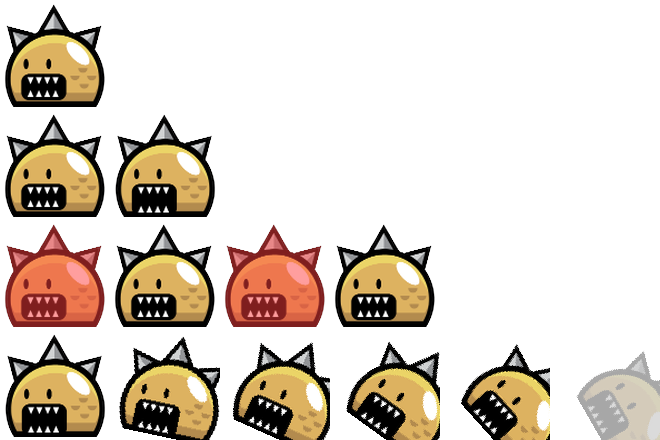
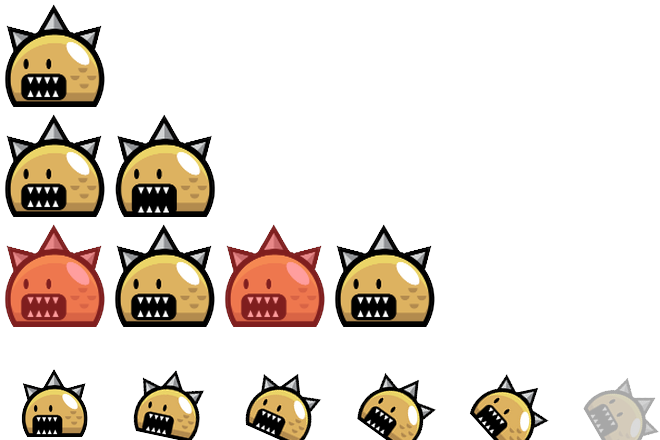
Fix enemy death frames getting clipped by the rotation
Frames 3-6 of the enemy death sequence rotated the already tightly-fit
110x110 sprite around a bottom pivot, so at larger angles the ears/spikes
swung past the canvas edge and got cut off. Scale the character down
specifically for the death sequence (max_target_for_rotation computes
how small it needs to be so a 60deg rotation around that pivot stays
within frame bounds) before rotating, so every frame stays fully visible.

Claude-Session: https://claude.ai/code/session_019oaB5ryC3pTEWKgWwECVMb

Changed region(s): [[0.0, 0.7682, 0.6667, 1.0], [0.697, 0.7682, 0.8485, 1.0], [0.8788, 0.7977, 1.0, 1.0]]

diff --git a/tools/compose_enemy_sheet.py b/tools/compose_enemy_sheet.py
@@ -39,10 +39,12 @@ def load_frames():
     return frames
 
 
-def fit_into_cell(char_img):
+def fit_into_cell(char_img, target=FRAME - 6):
+    """target = maksymalny rozmiar postaci wewnątrz komórki FRAMExFRAME (reszta
+    to margines). Dla death używamy mniejszego target, żeby przy obrocie kolce
+    głowy nie wyjeżdżały poza kadr (patrz max_target_for_rotation)."""
     cw, ch = char_img.size
-    margin = 6
-    scale = min((FRAME - margin) / cw, (FRAME - margin) / ch)
+    scale = min(target / cw, target / ch)
     new_w = max(1, round(cw * scale))
     new_h = max(1, round(ch * scale))
     resized = char_img.resize((new_w, new_h), Image.LANCZOS)
@@ -51,6 +53,20 @@ def fit_into_cell(char_img):
     py = FRAME - 3 - new_h
     cell.paste(resized, (px, py), resized)
     return cell
+
+
+def max_target_for_rotation(max_angle_deg, pivot_margin_from_bottom=12, edge_margin=3):
+    """Największy bezpieczny rozmiar postaci (fit_into_cell target), przy którym
+    obrót o max_angle_deg wokół pivotu (blisko dołu komórki) nie wychodzi poza
+    krawędzie FRAMExFRAME. Odległość czubka głowy od pivotu (d) po obrocie ma
+    składową poziomą d*sin(kąt) - to ona ogranicza, bo pivot jest blisko
+    poziomego środka, a mało miejsca po bokach."""
+    import math
+    pivot_y = FRAME - pivot_margin_from_bottom
+    half_width_available = FRAME / 2 - edge_margin
+    d_max = half_width_available / math.sin(math.radians(max_angle_deg))
+    # d = wysokość_postaci - (odległość dołu postaci od pivotu, tu ~9px z marginesu)
+    return max(20, round(d_max + 9))
 
 
 def tint_red(img, strength=0.5):
@@ -70,12 +86,16 @@ def main():
 
     hit_frames = [tint_red(cells[0]) if i % 2 == 0 else cells[0] for i in range(4)]
 
+    MAX_DEATH_ANGLE = 60
+    death_target = max_target_for_rotation(MAX_DEATH_ANGLE)
+    death_base = fit_into_cell(raw_frames[1], target=death_target)
+
     death_frames = []
     for i in range(6):
-        angle = min(60, i * 12)
+        angle = min(MAX_DEATH_ANGLE, i * 12)
         alpha = 255 if i < 5 else 150
-        frame = cells[1].rotate(-angle, resample=Image.NEAREST, expand=False,
-                                 center=(FRAME // 2, FRAME - 12))
+        frame = death_base.rotate(-angle, resample=Image.BICUBIC, expand=False,
+                                   center=(FRAME // 2, FRAME - 12))
         if alpha < 255:
             r, g, b, a = frame.split()
             a = a.point(lambda v: v * alpha // 255)
